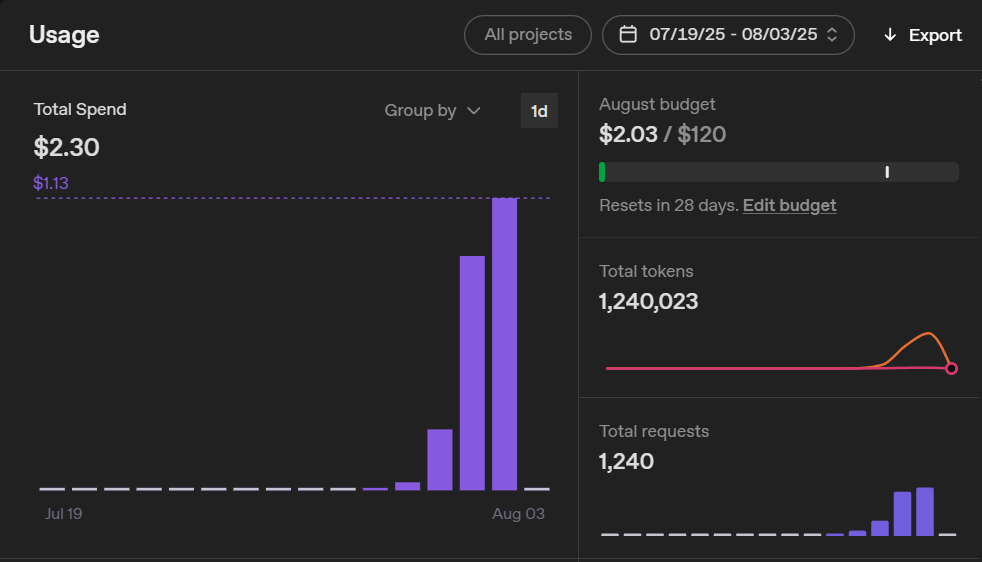
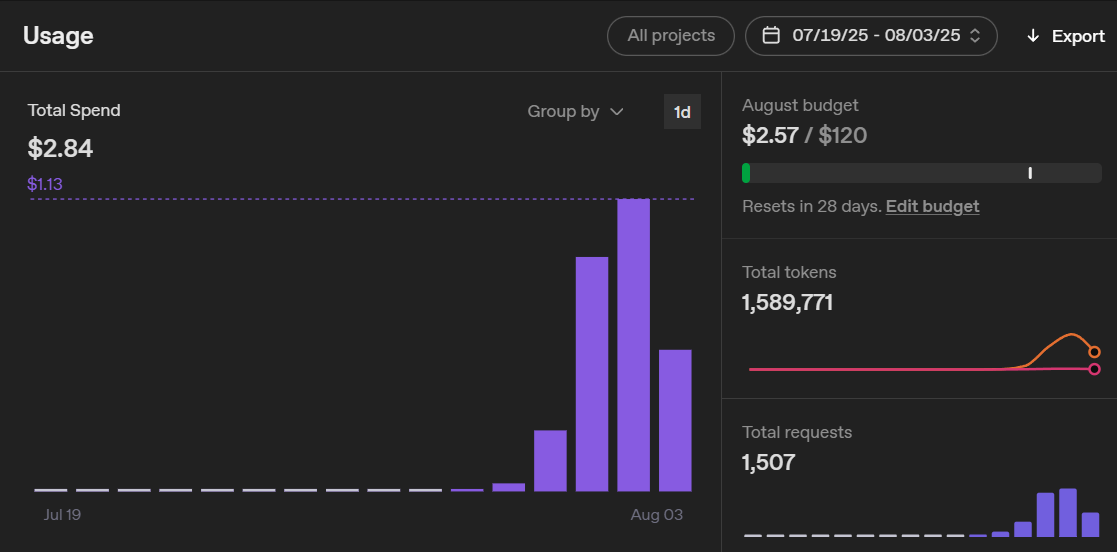
updated costs

diff --git a/README.md b/README.md
@@ -122,7 +122,7 @@ By the end, the agent could:
 
 ### Cost
 
-I set a budget of **£10** (≈\$13 USD), since I’d never used OpenAI API calls before. In total, I spent about **£1.73**.
+I set a budget of **£10** (≈$13 USD), since I’d never used OpenAI API calls before. In total, I spent about **≈£2.14** ($2.84 USD).
 
 ![Cost breakdown chart](assets/costs.png)
 
